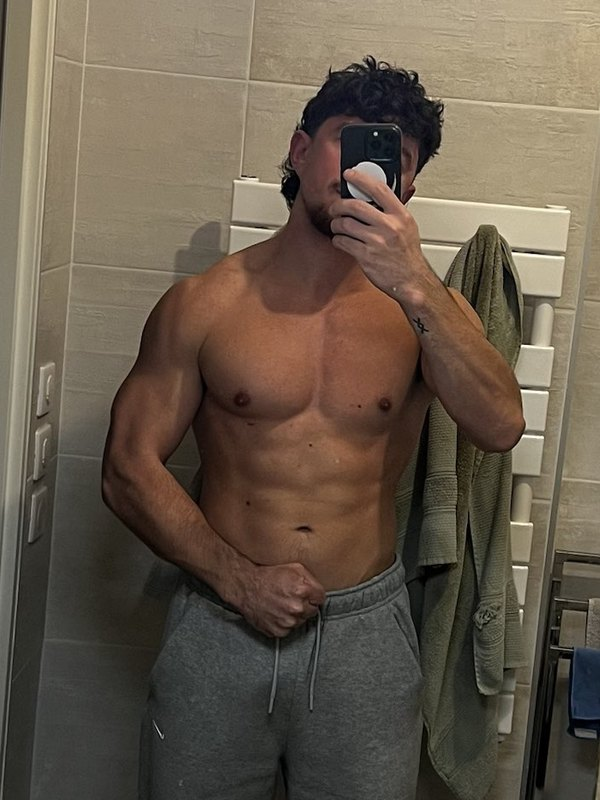
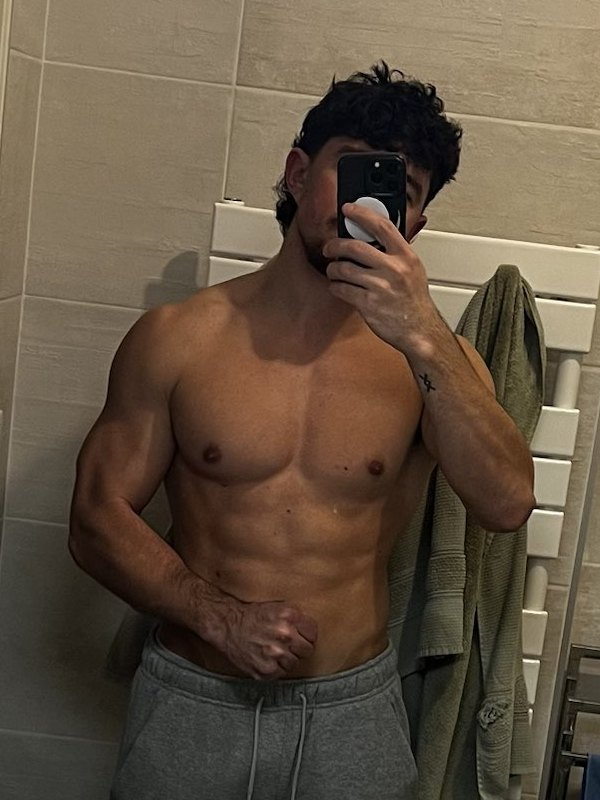
Avant/après : photo 2026 remplacée par la 4e (choix d'Alexis)
Claude-Session: https://claude.ai/code/session_01DcWyGVHSmErQWAgrYpfQn3

diff --git a/site-en-ligne/index.html b/site-en-ligne/index.html
@@ -442,7 +442,7 @@ section{padding-block:40px}
     <div class="ba reveal">
       <figure class="photo bap"><img src="parcours.jpg" alt="Alexis en 2018, à ses débuts en musculation, 52 kg" style="object-position:55% 22%"><figcaption class="balbl">Avant · 2018<b>52 kg</b></figcaption></figure>
       <span class="ba-mid" aria-hidden="true">+21 kg</span>
-      <figure class="photo bap now"><img src="maintenant.jpg" alt="Alexis aujourd'hui, 73 kg" style="object-position:50% 10%"><figcaption class="balbl">Maintenant · 2026<b>73 kg</b></figcaption></figure>
+      <figure class="photo bap now"><img src="maintenant.jpg" alt="Alexis aujourd'hui, 73 kg" style="object-position:50% 25%"><figcaption class="balbl">Maintenant · 2026<b>73 kg</b></figcaption></figure>
     </div>
     <div class="pc reveal">
       <p class="eyebrow">Qui suis-je</p>

diff --git a/site/index.html b/site/index.html
@@ -425,7 +425,7 @@ section{padding-block:40px}
     <div class="ba reveal">
       <figure class="photo bap"><img src="parcours.jpg" alt="Alexis en 2018, à ses débuts en musculation, 52 kg" style="object-position:55% 22%"><figcaption class="balbl">Avant · 2018<b>52 kg</b></figcaption></figure>
       <span class="ba-mid" aria-hidden="true">+21 kg</span>
-      <figure class="photo bap now"><img src="maintenant.jpg" alt="Alexis aujourd'hui, 73 kg" style="object-position:50% 10%"><figcaption class="balbl">Maintenant · 2026<b>73 kg</b></figcaption></figure>
+      <figure class="photo bap now"><img src="maintenant.jpg" alt="Alexis aujourd'hui, 73 kg" style="object-position:50% 25%"><figcaption class="balbl">Maintenant · 2026<b>73 kg</b></figcaption></figure>
     </div>
     <div class="pc reveal">
       <p class="eyebrow">Qui suis-je</p>
